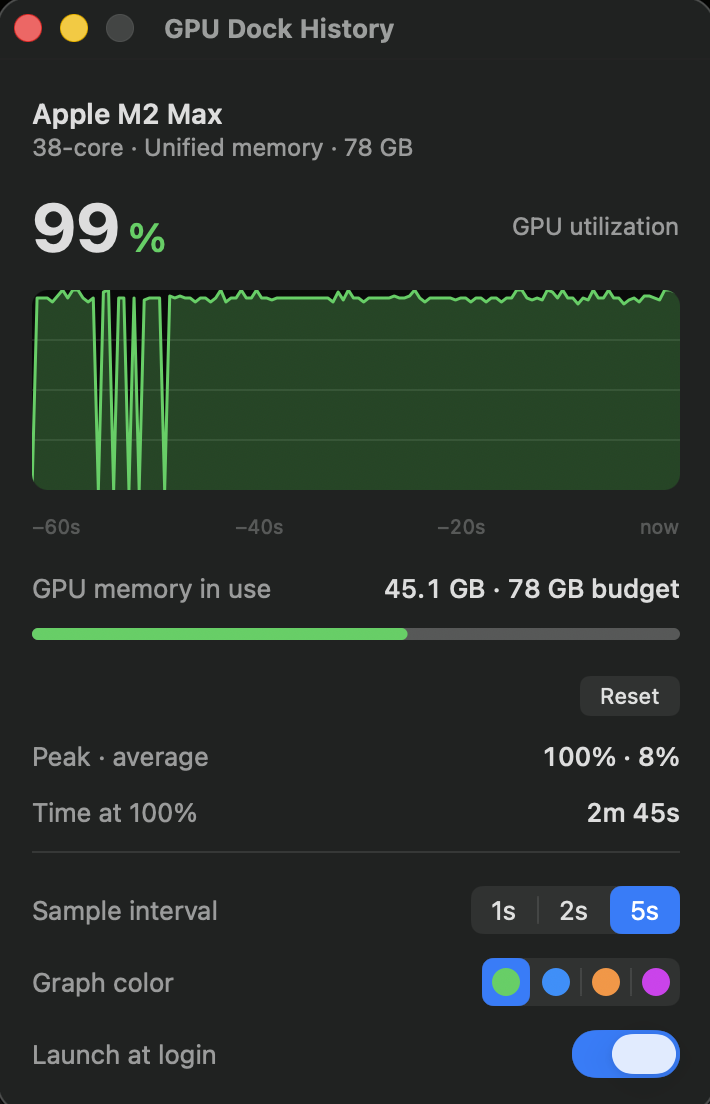
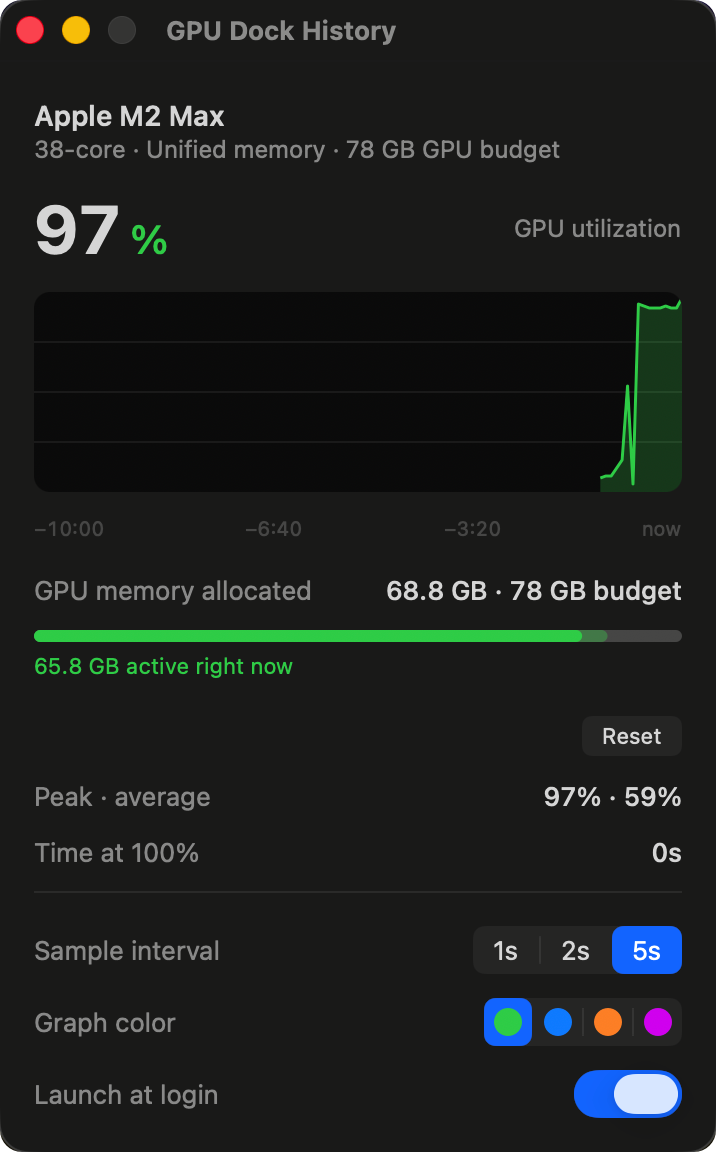
docs: survey the native GPU tools, add per-process GPU attribution script
Answers "which processes are holding GPU memory", which came up while fixing
the memory gauge. Verified on hardware: you cannot. No macOS interface
publishes per-process GPU memory — the AGXDeviceUserClient nodes carry only
IOUserClientCreator, AppUsage.accumulatedGPUTime and CommandQueueCount;
powermetrics --show-process-gpu is time-only per its own help text; and vmmap
on a process holding a 67 GB model reports IOAccelerator (graphics) 7456K,
because the driver wires the buffers on its behalf. Any per-process "GPU
memory" number is RSS wearing a different label.

GPU_TOOLS.md documents what does work, native tools first: Activity Monitor's
GPU and GPU Time columns (off by default, which is why people miss them),
Window > GPU History, and powermetrics for power and frequency. It also records
the trap the LLM case exposes — Activity Monitor's default Memory column is
footprint, which excludes mmap'd model weights and so reported 4.8 GB for a
process holding 59.1 GB resident. Real Memory has to be added by hand.

gpu-by-process.swift covers the one gap the native tools leave: per-process GPU
time from a terminal without sudo, so it works over SSH. Swift against IOKit
rather than parsing ioreg text, matching make-icon.swift and the app's own
public-API-only constraint. It prints RSS alongside as a lead for finding the
owner of a large allocation, labelled as what it is, and prints a dash rather
than 0.0 GB for processes it cannot read (WindowServer runs as _windowserver)
[…]

diff --git a/scripts/gpu-by-process.swift b/scripts/gpu-by-process.swift
@@ -1,0 +1,132 @@
+// gpu-by-process.swift — which processes are using the GPU, and how much
+// memory they hold. No sudo, no dependencies; IOKit and libproc only, the same
+// public-API constraint the app itself works under.
+//
+//   swift scripts/gpu-by-process.swift [seconds]     (default 2)
+//
+// Every Metal-using process owns one or more AGXDeviceUserClient nodes in the
+// IORegistry carrying "IOUserClientCreator" (pid + name) and "AppUsage"
+// (accumulatedGPUTime, ns). Sampling that twice and diffing gives each
+// process's share of GPU busy time over the window.
+//
+// GPU *memory* cannot be attributed this way — see docs/GPU_TOOLS.md. Those
+// client nodes publish no byte counts and neither does anything else, so this
+// prints resident size instead, which on unified memory includes a process's
+// GPU buffers but also everything else it has resident. Treat it as a lead,
+// not an attribution.
+
+import Darwin
+import Foundation
+import IOKit
+
+struct Client {
+    var name: String
+    var gpuNanos: UInt64
+}
+
+/// Every AGXDeviceUserClient in the registry, aggregated per pid. Iterates the
+/// service plane and filters by class rather than using IOServiceGetMatchingServices:
+/// user clients are not published services, so class *matching* does not find them.
+func sampleClients() -> [pid_t: Client] {
+    var iterator: io_iterator_t = 0
+    guard IORegistryCreateIterator(kIOMainPortDefault, kIOServicePlane,
+                                   IOOptionBits(kIORegistryIterateRecursively),
+                                   &iterator) == KERN_SUCCESS else { return [:] }
+    defer { IOObjectRelease(iterator) }
+
+    var result: [pid_t: Client] = [:]
+    var entry = IOIteratorNext(iterator)
+    while entry != 0 {
+        defer {
+            IOObjectRelease(entry)
+            entry = IOIteratorNext(iterator)
+        }
+
+        var className = [CChar](repeating: 0, count: 128)
+        guard IOObjectGetClass(entry, &className) == KERN_SUCCESS,
+              String(cString: className) == "AGXDeviceUserClient" else { continue }
+
+        var propsRef: Unmanaged<CFMutableDictionary>?
+        guard IORegistryEntryCreateCFProperties(entry, &propsRef, kCFAllocatorDefault, 0) == KERN_SUCCESS,
+              let props = propsRef?.takeRetainedValue() as? [String: Any],
+              let creator = props["IOUserClientCreator"] as? String,
+              let (pid, name) = parseCreator(creator) else { continue }
+
+        // AppUsage holds one entry per command queue; a process with several
+        // queues (WindowServer runs five) reports each separately, so they sum.
+        var nanos: UInt64 = 0
+        if let usage = props["AppUsage"] as? [[String: Any]] {
+            for u in usage {
+                if let t = u["accumulatedGPUTime"] as? UInt64 { nanos += t }
+                else if let t = u["accumulatedGPUTime"] as? Int, t > 0 { nanos += UInt64(t) }
+            }
+        }
+
+        var client = result[pid] ?? Client(name: name, gpuNanos: 0)
+        client.gpuNanos += nanos
+        result[pid] = client
+    }
+    return result
+}
+
+/// "pid 46259, llama-server" -> (46259, "llama-server"). The name is the
+/// kernel's 16-character comm, so longer ones arrive truncated.
+func parseCreator(_ s: String) -> (pid_t, String)? {
+    guard s.hasPrefix("pid ") else { return nil }
+    let rest = s.dropFirst(4)
+    guard let comma = rest.firstIndex(of: ",") else { return nil }
+    guard let pid = pid_t(rest[rest.startIndex..<comma]) else { return nil }
+    return (pid, rest[rest.index(after: comma)...].trimmingCharacters(in: .whitespaces))
+}
+
+/// Resident size in bytes, or nil when the process cannot be read — processes
+/// owned by another user (WindowServer runs as _windowserver) refuse
+/// proc_pidinfo. nil rather than 0: a zero here would read as "holds no
+/// memory", which is the opposite of what an unreadable process means.
+func residentBytes(_ pid: pid_t) -> UInt64? {
+    var info = proc_taskinfo()
+    let size = Int32(MemoryLayout<proc_taskinfo>.size)
+    guard proc_pidinfo(pid, PROC_PIDTASKINFO, 0, &info, size) == size else { return nil }
+    return info.pti_resident_size
+}
+
+let window = CommandLine.arguments.count > 1 ? (Double(CommandLine.arguments[1]) ?? 2) : 2
+let first = sampleClients()
+Thread.sleep(forTimeInterval: window)
+let second = sampleClients()
+
+struct Row {
+    let pid: pid_t, name: String, delta: UInt64, total: UInt64, rss: UInt64?
+}
+
+var rows: [Row] = []
+for (pid, client) in second {
+    let before = first[pid]?.gpuNanos ?? client.gpuNanos
+    let delta = client.gpuNanos > before ? client.gpuNanos - before : 0
+    // Processes holding a client node that has never run GPU work are noise.
+    if delta == 0 && client.gpuNanos == 0 { continue }
+    rows.append(Row(pid: pid, name: client.name, delta: delta,
+                    total: client.gpuNanos, rss: residentBytes(pid)))
+}
+rows.sort { ($0.delta, $0.total) > ($1.delta, $1.total) }
+
+func pad(_ s: String, _ width: Int) -> String {
+    s.count >= width ? s : String(repeating: " ", count: width - s.count) + s
+}
+
+print(String(format: "GPU busy time over %gs, by process (IORegistry AppUsage, no sudo)", window))
+print("\(pad("GPU%", 7))  \(pad("GPU s (total)", 14))  \(pad("RSS", 9))  \(pad("PID", 7))  process")
+for r in rows.prefix(15) {
+    let pct = 100 * Double(r.delta) / (window * 1e9)
+    let rss = r.rss.map { String(format: "%.1fGB", Double($0) / 1_073_741_824) } ?? "—"
+    print(String(format: "%6.2f%%  %13.1fs  %@  %7d  %@",
+                 pct, Double(r.total) / 1e9, pad(rss, 9) as NSString, r.pid, r.name))
+}
+if rows.isEmpty {
+    print("(no process has run GPU work — AGXDeviceUserClient nodes report no AppUsage)")
+}
+print("""
+
+RSS is resident memory, not GPU memory: no per-process GPU byte count exists.
+See docs/GPU_TOOLS.md.
+""")

diff --git a/docs/ARCHITECTURE.md b/docs/ARCHITECTURE.md
@@ -47,7 +47,7 @@ MeterView.swift          Rounded meter for the GPU-memory-vs-budget gauge:
 - **Dock tile over menu bar**: the whole point. `setActivationPolicy(.regular)` is required — LSUIElement/accessory apps have no dock tile.
 - **Optional window, not menu bar**: the details/settings window is a secondary surface for App Review 4.2 and to give the app a home (settings, reopen, first-run orientation). It is theme-adaptive except the graph, which stays a dark scope to match the tile. Closing it does not quit the app (no `applicationShouldTerminateAfterLastWindowClosed`).
 - **Only reliable public stats are shown**: on this hardware `Renderer/Tiler Utilization %` returned identical/zero values under load and `recoveryCount` is always 0, so both were cut. Device Utilization %, GPU memory, and static identity are what remain. Power and temperature need private APIs and are out.
-- **No per-process breakdown**, checked on hardware 2026-07-30. Per-process GPU *time* is public and unprivileged — every Metal-using process owns an `AGXDeviceUserClient` node carrying `IOUserClientCreator` (pid + name) and `AppUsage.accumulatedGPUTime`, and sampling it twice gives each process's share of GPU busy time. Per-process GPU *memory* does not exist anywhere: those client nodes publish no byte counts, and `powermetrics --show-process-gpu` is likewise time-only. Neither is shown here. Memory cannot be attributed honestly — the only proxy is RSS, which counts all resident memory, so a process list under a "GPU memory" heading would assign a number to a cause the data does not support. Time could be shown, but Activity Monitor already ships per-process `GPUUsage` and `GPUTime` columns, so cloning it would mean a sortable table inside the fixed 360pt window (a new UI surface) for a feature one Cmd-Tab away. What this app has that Activity Monitor does not is GPU memory at all — Activity Monitor shows none, at any granularity.
+- **No per-process breakdown**, checked on hardware 2026-07-30. Per-process GPU *time* is public and unprivileged — every Metal-using process owns an `AGXDeviceUserClient` node carrying `IOUserClientCreator` (pid + name) and `AppUsage.accumulatedGPUTime`, and sampling it twice gives each process's share of GPU busy time. Per-process GPU *memory* does not exist anywhere: those client nodes publish no byte counts, and `powermetrics --show-process-gpu` is likewise time-only. Neither is shown here. Memory cannot be attributed honestly — the only proxy is RSS, which counts all resident memory, so a process list under a "GPU memory" heading would assign a number to a cause the data does not support. Time could be shown, but Activity Monitor already ships per-process `GPUUsage` and `GPUTime` columns, so cloning it would mean a sortable table inside the fixed 360pt window (a new UI surface) for a feature one Cmd-Tab away. What this app has that Activity Monitor does not is GPU memory at all — Activity Monitor shows none, at any granularity. The full survey, including the native tools that do answer "what is using my GPU", is in [GPU_TOOLS.md](GPU_TOOLS.md); `scripts/gpu-by-process.swift` covers the one case they miss (per-process GPU time from a terminal, no sudo).
 - **Top-level main.swift**: works with both bare `swiftc` (scripts/build.sh) and the XcodeGen project. Don't convert to `@main` without keeping the file named main.swift or restructuring.
 - **Memory leads with allocated, not in-use**: `PerformanceStatistics` publishes both `Alloc system memory` and `In use system memory`, and they are different quantities. Measured on the M2 Max (2026-07-29) by allocating 4 GiB of `.storageModeShared` buffers, faulting the pages in, then blitting between two of them: allocated moved +4.00 GB exactly and in-use did not budge; in-use rose only while a command buffer touched the buffers and fell back to baseline ~3s after the work finished; allocated dropped back when the owning process exited, so it is live rather than monotonic. The app originally showed in-use alone against the budget, which meant a Mac holding a 67 GB LLM in GPU memory read "0.5 GB in use" whenever inference paused — indistinguishable from a broken gauge, and pairing a transient wired figure with an allocation ceiling made the bar carry no information. The window now leads with allocated (the figure that answers "will a bigger model fit", and the one llama.cpp and MLX check against `recommendedMaxWorkingSetSize`) and shows in-use as the meter's bright inner segment plus a tinted caption. Allocated is system-wide across all processes, so its floor is never zero on a live Mac — which is why 0 is treated as "key absent" and rendered "—". Allocation is not residency, so allocated can in principle exceed the budget; the meter clamps, the numbers do not.
 - **Absent statistics are not zero**: the utilization key is undocumented and verified on one machine, so a future OS, an unreleased GPU, or a paravirtualized GPU in a VM could stop supplying it. `GPUSampler` returns nil in that case rather than 0, `SampleHistory` records no sample and flips `isAvailable`, and the window replaces every live figure with "—" plus a "Statistics unavailable" caption. Without this the failure renders as a flat graph, which is pixel-identical to an idle GPU — the app would look like it worked. `--sample` prints `unavailable` for the same reason, and `verify.sh` fails on it. The converse is deliberately not an error: a real 0 is legitimate on an idle machine, so the gate does not fail on zero samples.

diff --git a/docs/GPU_TOOLS.md b/docs/GPU_TOOLS.md
@@ -1,0 +1,116 @@
+# Seeing GPU usage on Apple Silicon
+
+What is using the GPU, and who is holding its memory — answered with what
+macOS already ships, plus one script in this repo for the case none of them
+cover. Everything here was verified on an M2 Max on 2026-07-30; the IORegistry
+keys are undocumented and may change between OS releases.
+
+The short version:
+
+| Question | Best tool |
+|---|---|
+| Which processes are using the GPU right now | Activity Monitor, GPU column |
+| Same, from a terminal, no sudo | `scripts/gpu-by-process.swift` |
+| Same, with power and frequency | `sudo powermetrics --samplers gpu_power --show-process-gpu` |
+| How much GPU memory is committed system-wide | This app's details window |
+| How much GPU memory **a given process** holds | Not available on macOS — see below |
+
+## Activity Monitor (native, no sudo)
+
+Per-process GPU **time** is a shipped feature and most people miss it because
+the columns are off by default:
+
+- **CPU tab -> View > Columns -> GPU** and **GPU Time**. GPU is the share of
+  the GPU a process is using now; GPU Time is its cumulative total.
+- **Window > GPU History** draws the system-wide utilization graph. It is a
+  window only — unlike CPU History, it cannot go in the Dock, which is the
+  reason this app exists.
+
+For memory there is a trap worth knowing about. The Memory tab's default
+**Memory** column shows *footprint*, which excludes clean file-backed pages.
+A local LLM usually mmaps its weights from a model file, so footprint reports a
+fraction of what the process actually holds resident:
+
+```
+llama-server, 67 GB model loaded
+  Memory (footprint)   4.8 GB      <- Activity Monitor's default column
+  Real Memory (RSS)   59.1 GB      <- the weights
+```
+
+Add **Real Memory** via View > Columns or the default column will understate a
+loaded model by more than tenfold.
+
+## powermetrics (native, sudo)
+
+```bash
+sudo powermetrics --samplers gpu_power --show-process-gpu -n 1
+```
+
+`--show-process-gpu` is documented in `powermetrics --help` as "show
+per-process gpu time" — time, not memory. The `gpu_power` sampler also reports
+GPU frequency and residency, which nothing else exposes without private APIs.
+
+## scripts/gpu-by-process.swift (this repo, no sudo)
+
+```
+$ swift scripts/gpu-by-process.swift 3
+GPU busy time over 3s, by process (IORegistry AppUsage, no sudo)
+   GPU%   GPU s (total)        RSS      PID  process
+  0.46%        18142.6s          —      420  WindowServer
+  0.38%          229.3s      0.2GB    46484  cmux
+  0.00%           42.2s     63.3GB    64563  llama-server
+```
+
+Fills the one gap the native tools leave: per-process GPU time in a terminal
+without sudo, so it works over SSH and in scripts. Every Metal-using process
+owns an `AGXDeviceUserClient` node in the IORegistry carrying
+`IOUserClientCreator` (pid and name) and `AppUsage.accumulatedGPUTime`;
+sampling twice and diffing gives each process's share.
+
+Reading notes:
+
+- **RSS is not GPU memory.** It is everything the process holds resident. It is
+  in the table because on unified memory a process's GPU buffers are counted in
+  it, which makes it a useful lead — the `llama-server` row above is how you
+  find the owner of a large allocation. It is not an attribution.
+- **A dash means unreadable, not zero.** WindowServer runs as `_windowserver`,
+  so `proc_pidinfo` refuses it. Printing 0.0 GB there would read as "holds no
+  memory", which is the opposite of the truth.
+- Names come from the kernel's 16-character `comm`, so longer ones are
+  truncated ("Google Chrome He").
+
+## What is not available: per-process GPU memory
+
+No macOS interface reports how much GPU memory a given process holds. This is
+not a permissions problem or a private-API problem — the data is not published:
+
+- The `AGXDeviceUserClient` nodes carry only `IOUserClientCreator`, `AppUsage`
+  and `CommandQueueCount`. No byte counts, on any of them.
+- `powermetrics --show-process-gpu` is time-only, per its own help text.
+- `vmmap` sees almost nothing. For a process holding a 67 GB model:
+  `IOAccelerator 64K`, `IOAccelerator (graphics) 7456K`. The buffers are wired
+  by the driver on the process's behalf and do not appear as its own mapped
+  regions.
+- Activity Monitor has no GPU memory column, at any granularity.
+
+So any per-process "GPU memory" figure is really RSS wearing a different label,
+and RSS counts all resident memory — a browser with 700 MB resident is holding
+almost no GPU memory. Use the system-wide total to learn that memory is
+committed, then RSS to find the likely owner, and keep the two ideas separate.
+
+## Where this app fits
+
+The details window shows the system-wide figures that Activity Monitor omits
+entirely:
+
+```
+GPU memory allocated          67.4 GB · 78 GB budget
+0.5 GB active right now
+```
+
+**Allocated** is what processes have committed, and it is what tells you
+whether a bigger model or scene will fit. **Active** is what the GPU is
+touching right now; it collapses to well under a gigabyte within seconds of
+work finishing, even with tens of gigabytes still allocated. Both come from
+`PerformanceStatistics` (`Alloc system memory` and `In use system memory`) —
+see docs/ARCHITECTURE.md for the measurements that pin down the difference.

diff --git a/README.md b/README.md
@@ -10,7 +10,7 @@ Why: Activity Monitor can put **CPU** history in the Dock, but GPU History only 
 
 ![The optional GPU Dock History details window showing utilization graph, memory gauge, and settings](docs/details-window.png)
 
-*The optional details/settings window: live utilization, GPU memory vs. budget, session peak/average, and settings.*
+*The optional details/settings window: live utilization, GPU memory allocated vs. budget with the actively-touched portion highlighted, session peak/average, and settings.*
 
 ## How it works
 
@@ -29,6 +29,8 @@ open "build/GPU Dock History.app"
 Requires Xcode Command Line Tools. Right-click the dock icon → Quit to stop, or Open GPU Dock History for the details window. Toggle **Launch at login** in that window (or add it to System Settings → General → Login Items) to keep it running.
 
 `build.sh` compiles with `swiftc` and no `-target` flag, so it builds for the host architecture only — on Apple Silicon that is an **arm64-only** binary, which won't launch on Intel Macs. This is intentional: the app is Apple-Silicon-only (see [docs/ARCHITECTURE.md](docs/ARCHITECTURE.md#platform--build-architecture)).
+
+To see which processes are using the GPU (and why no tool can tell you which one holds its *memory*), see [docs/GPU_TOOLS.md](docs/GPU_TOOLS.md) and `swift scripts/gpu-by-process.swift`.
 
 `./scripts/verify.sh` builds and checks the sampling pipeline headlessly (`gpudockhistory --sample` prints utilization values without starting the app). Where the GPU statistics cannot be read at all, `--sample` prints `unavailable`, `verify.sh` fails, and the details window says "Statistics unavailable" rather than showing 0% — then run `./scripts/verify-iokit-key.sh`.
 
@@ -49,8 +51,10 @@ See `docs/APP_STORE_PUBLISHING.md` for the full path to Mac App Store submission
 ```
 Sources/GPUDockHistory/   Swift sources (dock tile + optional details window)
 Resources/                Info.plist, entitlements, Assets.xcassets (AppIcon)
-scripts/                  dev build, verify gate, IOKit key verification
-docs/                     architecture, App Store publishing guide, screenshot
+scripts/                  dev build, verify gate, IOKit key verification,
+                          per-process GPU attribution
+docs/                     architecture, App Store publishing guide, GPU tooling
+                          survey, screenshots
 project.yml               XcodeGen spec (generates the .xcodeproj)
 CLAUDE.md                 agent working context/conventions (AGENTS.md points here)
 ```

diff --git a/CLAUDE.md b/CLAUDE.md
@@ -309,6 +309,30 @@ dependencies, anything involving his Apple Developer account.
   meter that looks empty with a 67 GB model resident). Gates pass;
   **needs Brian's eyes** on the two-segment bar in both themes, and
   `docs/details-window.png` in the README is now stale (shows the old row).
+- Done (2026-07-30): `docs/GPU_TOOLS.md` + `scripts/gpu-by-process.swift`, from
+  Brian asking how to see which processes hold GPU memory. Answer, verified on
+  hardware: **you cannot** — no macOS interface publishes per-process GPU
+  memory. `AGXDeviceUserClient` nodes (one per Metal process) carry only
+  `IOUserClientCreator`, `AppUsage.accumulatedGPUTime` and `CommandQueueCount`;
+  `powermetrics --show-process-gpu` is time-only per its own help; `vmmap` on a
+  process holding a 67 GB model shows `IOAccelerator (graphics) 7456K`, because
+  the driver wires the buffers on its behalf. Per-process GPU *time* is public
+  and unprivileged, but Activity Monitor already ships GPU/GPU Time columns
+  (his own prefs sort by `GPUUsage`), so putting either in the app was rejected:
+  memory cannot be attributed honestly (RSS is all resident memory) and time
+  would mean a sortable table in the fixed 360pt window — a new UI surface for
+  a shipped feature. The script covers the one real gap, per-process GPU time
+  from a terminal with no sudo. Written in Swift against IOKit, not the original
+  Python parsing `ioreg` text, which produced two bugs while being written
+  (brace-matching merged client nodes and misattributed their sums; filtering
+  after a top-N truncation hid every real GPU user). Also documents the
+  Activity Monitor trap the LLM case exposes: the default Memory column is
+  footprint, which excludes mmap'd model weights — 4.8 GB against 59.1 GB RSS
+  for the same process; Real Memory has to be added by hand.
+- Done (2026-07-30): `docs/details-window.png` refreshed from Brian's screenshot
+  (the old one predated both the memory-row change and PR #13's time axis).
+  Cropped to the detected window bounds and re-clipped to a rounded rect so the
+  window behind it stops bleeding into the top-right corner.
 - Blocked on Brian, in order:
   1. **Install full Xcode.app** — the machine has Command Line Tools only, so
      `xcodebuild` will not run and there is no Archive/upload path. This gates
